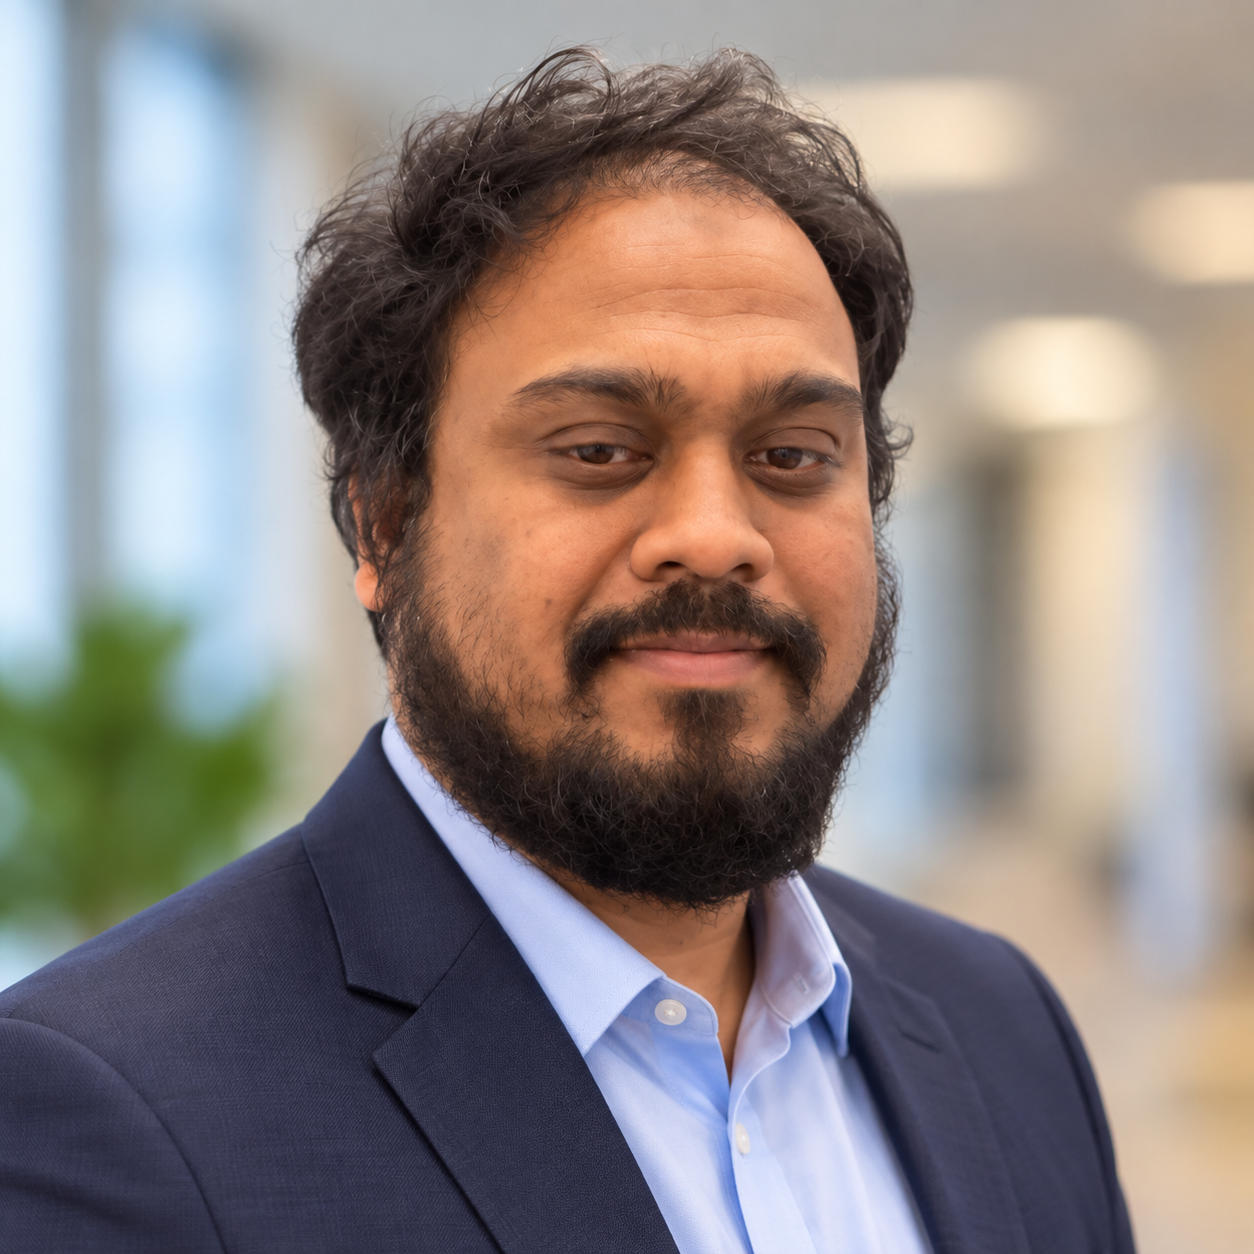
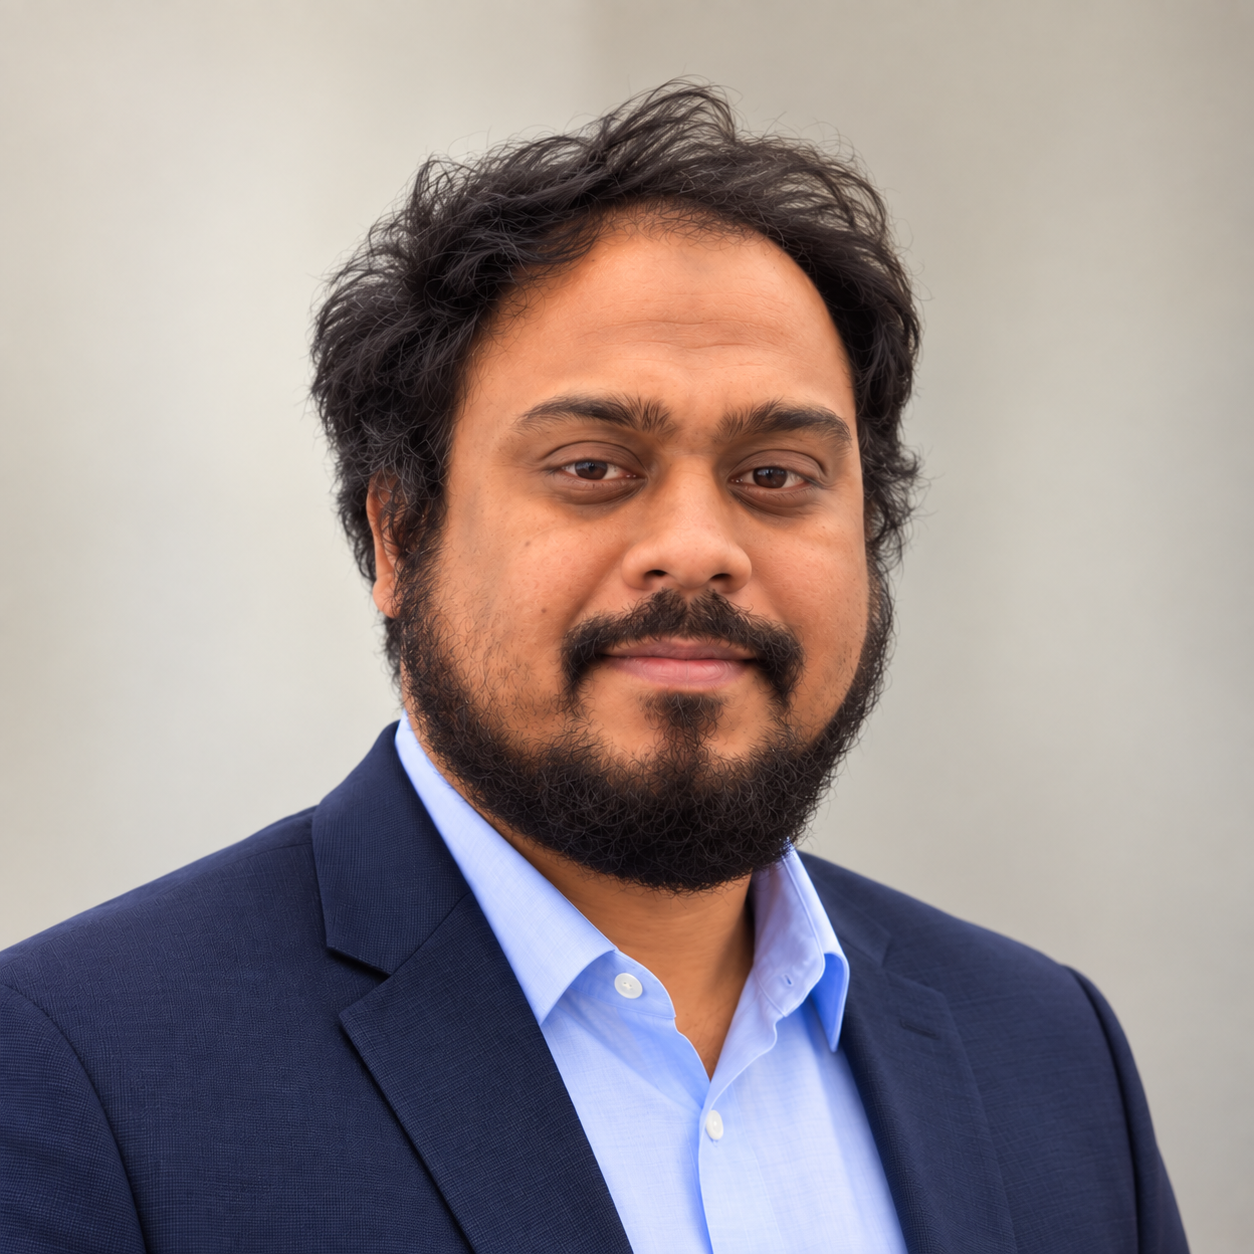
Replace profile photo and remove its border

diff --git a/v2.html b/v2.html
@@ -26,7 +26,7 @@
   hr { height: 0; border: 0; border-top: 2px groove #a0a0a0; margin: 10px 0; }
   .stars { text-align: center; color: #808080; letter-spacing: 4px; margin: 12px 0; }
 
-  img.photo { float: right; width: 150px; border: 3px ridge #909090; margin: 0 0 10px 16px; }
+  img.photo { float: right; width: 150px; border: none; margin: 0 0 10px 16px; }
 
   .tagline { font-style: italic; margin: 2px 0; }
   .banner {
@@ -64,7 +64,7 @@
 <body>
 
 <!-- Profile photograph. -->
-<img class="photo" src="assets/img/headshot.png" alt="Sheikh Abujar" onerror="this.style.display='none'">
+<img class="photo" src="assets/img/headshot.png?v=2" alt="Sheikh Abujar" onerror="this.style.display='none'">
 
 <h1 title="a.k.a. the person who tries to make time series behave">Sheikh Abujar</h1>
 <p class="tagline">

diff --git a/index.html b/index.html
@@ -38,7 +38,7 @@
   img.photo {
     float: right;
     width: 150px;
-    border: 3px ridge #909090;
+    border: none;
     margin: 0 0 10px 16px;
   }
 
@@ -59,7 +59,7 @@
 <body>
 
 <!-- Profile photograph. -->
-<img class="photo" src="assets/img/headshot.png" alt="Sheikh Abujar" onerror="this.style.display='none'">
+<img class="photo" src="assets/img/headshot.png?v=2" alt="Sheikh Abujar" onerror="this.style.display='none'">
 <h1>Sheikh Abujar</h1>
 <p class="tagline">Ph.D. Candidate, Department of Computer Science<br>
 University of Alabama at Birmingham<br>

diff --git a/versions/favorite-v1-90s-classic.html b/versions/favorite-v1-90s-classic.html
@@ -38,7 +38,7 @@
   img.photo {
     float: right;
     width: 150px;
-    border: 3px ridge #909090;
+    border: none;
     margin: 0 0 10px 16px;
   }
 
@@ -59,7 +59,7 @@
 <body>
 
 <!-- Profile photograph. -->
-<img class="photo" src="../assets/img/headshot.png" alt="Sheikh Abujar" onerror="this.style.display='none'">
+<img class="photo" src="../assets/img/headshot.png?v=2" alt="Sheikh Abujar" onerror="this.style.display='none'">
 
 <h1>Sheikh Abujar</h1>
 <p class="tagline">Ph.D. Candidate, Department of Computer Science<br>
